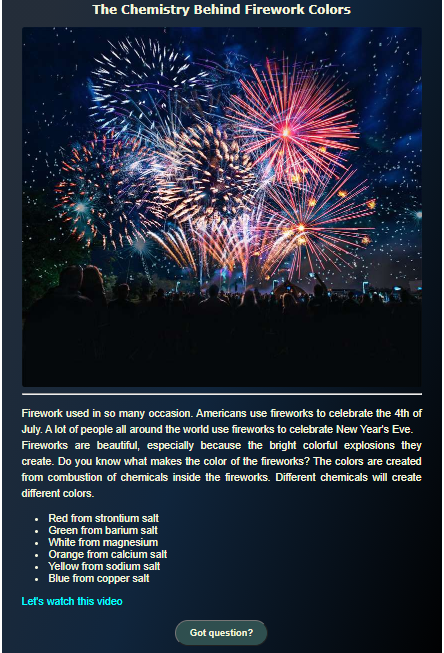
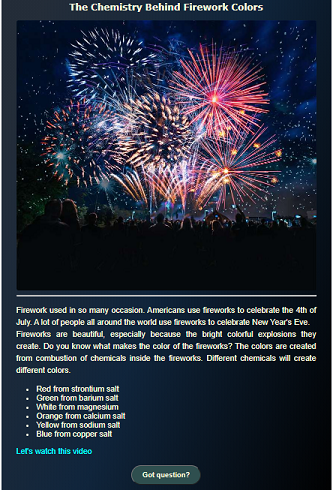
change fireworks image size fix css of paragraph

diff --git a/index.html b/index.html
@@ -50,7 +50,7 @@
         <div class="col">
           <div class="project-description">
             <h2 class="mb-5">Fireworks Project</h2>
-            <p class="mb-4 text-muted">
+            <p class="mb-5 text-muted">
               Lorem ipsum dolor sit amet, consectetur adipiscing elit. Curabitur
               a sapien ipsum. Morbi maximus nibh mauris, sit amet elementum
               libero tincidunt a. Mauris ac justo ligula. Aenean sed justo
@@ -67,7 +67,7 @@
         <div class="col">
           <div class="project-description">
             <h2 class="mb-5">Weather App</h2>
-            <p class="mb-4 text-muted">
+            <p class="mb-5 text-muted">
               Lorem ipsum dolor sit amet, consectetur adipiscing elit. Curabitur
               a sapien ipsum. Morbi maximus nibh mauris, sit amet elementum
               libero tincidunt a. Mauris ac justo ligula. Aenean sed justo
@@ -90,7 +90,7 @@
         <div class="col">
           <div class="project-description">
             <h2 class="mb-5">Yoga Project</h2>
-            <p class="mb-4 text-muted">
+            <p class="mb-5 text-muted">
               Lorem ipsum dolor sit amet, consectetur adipiscing elit. Curabitur
               a sapien ipsum. Morbi maximus nibh mauris, sit amet elementum
               libero tincidunt a. Mauris ac justo ligula. Aenean sed justo

diff --git a/src/style.css b/src/style.css
@@ -72,8 +72,8 @@ p {
   padding: 15px 30px;
 }
 
-.project-desciption {
-  padding: 120px 60px;
+.project-description {
+  padding: 20px 40px;
 }
 
 @media (max-width: 900px) {
